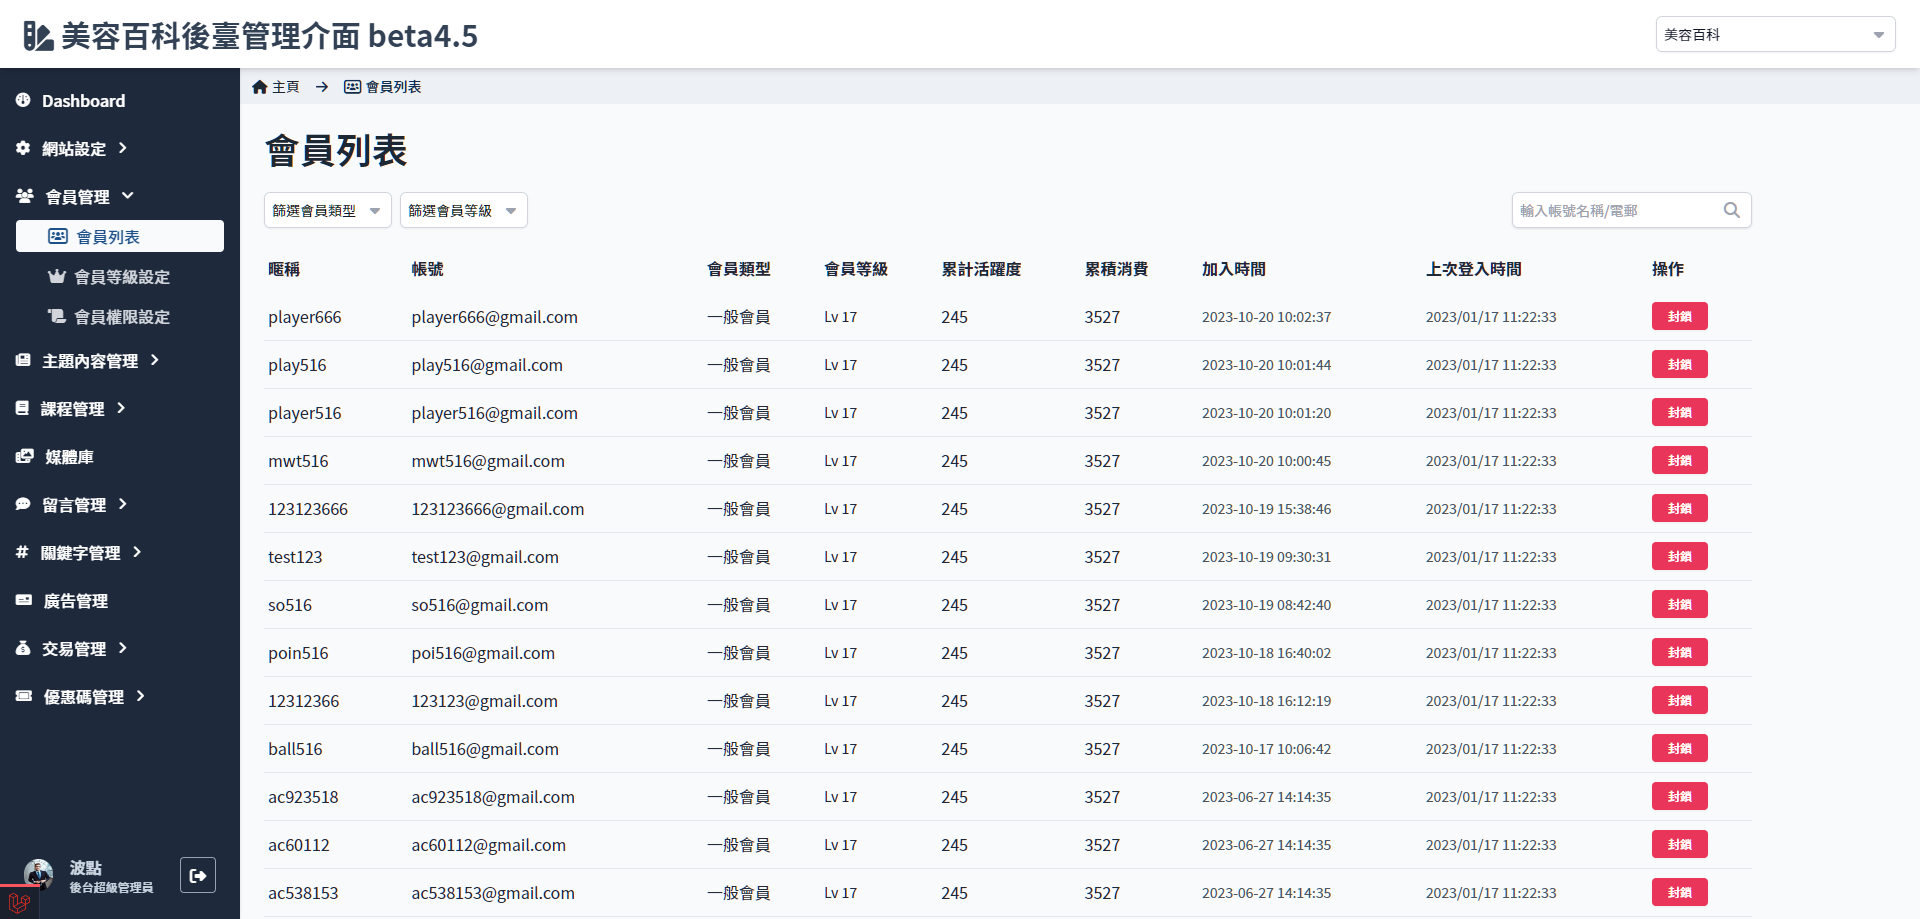
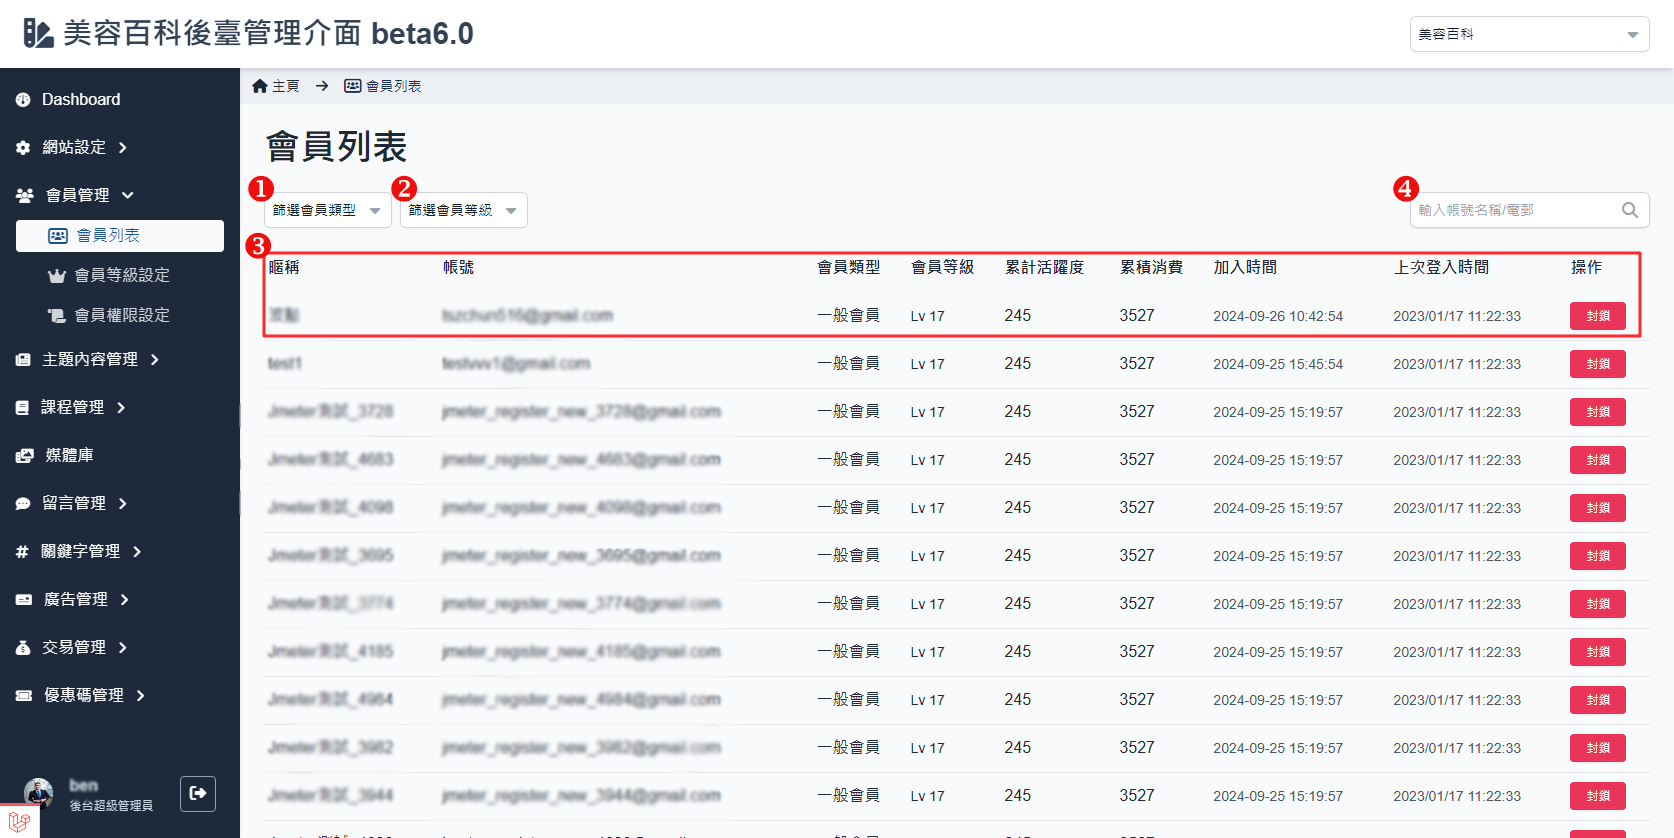
feat(member-list) update page

diff --git a/docs/beauty/member/member-list.md b/docs/beauty/member/member-list.md
@@ -1,6 +1,30 @@
 ---
-title: 會員列表相關操作
+title: 會員列表
 sidebar_position: 1
 ---
 
-# 會員列表相關操作
+# 會員列表
+
+提供了查看和管理所有會員的功能，包括篩選會員、查看會員詳細資訊、封鎖會員等操作。
+
+## 操作說明
+
+1. **篩選會員類型**：透過篩選功能，可以篩選會員的類型（如一般會員、黃金會員、鑽石會員），快速找到特定類型的會員。
+    - (功能開發中)
+2. **篩選會員等級**：透過篩選功能，可以按會員等級篩選，方便查看特定等級的會員（如 Lv 1~ Lv 10 等級範圍中的會員）。
+    - (功能開發中)
+3. **會員資訊顯示**：
+    - **暱稱**：顯示會員在系統中的暱稱。
+        - 點擊暱稱可進入至 [會員個人信息](./member-list-info.md) 頁面。
+    - **帳號**：顯示會員的帳號（通常為電子郵件）。
+    - **會員類型**：顯示會員所屬的類型。
+    - **會員等級**：顯示會員的等級，例如 Lv 17。
+    - **累計活躍度**：顯示會員的累計活躍度分數。
+    - **累計消費**：顯示會員在平台上的累計消費額度。
+    - **加入時間**：顯示會員註冊並加入的時間。
+    - **上次登入時間**：顯示會員最後一次登入系統的時間。
+    - **操作**：
+        - **封鎖**：對於會員，可以使用「封鎖」按鈕來阻止其繼續使用平台功能。
+            - (功能開發中)
+4. **搜尋功能**：右上方提供搜索框，允許管理者通過會員暱稱或帳號（電子郵件）來搜尋特定會員。
+   ![會員列表操作說明](./img/member-list.png)

diff --git a/docs/beauty/member/member-list-info.md b/docs/beauty/member/member-list-info.md
@@ -1,0 +1,10 @@
+---
+title: 會員個人信息
+sidebar_position: 1.1
+---
+
+# 會員個人信息
+
+查看個人資料
+
+## 操作說明
